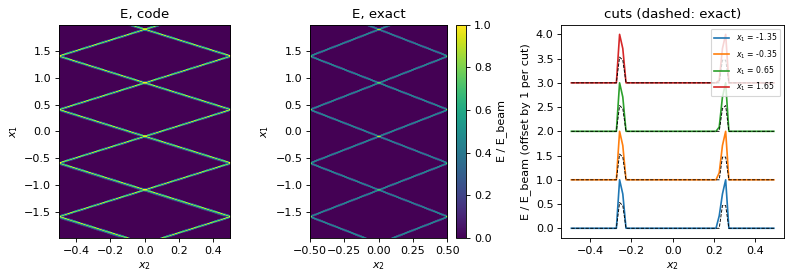
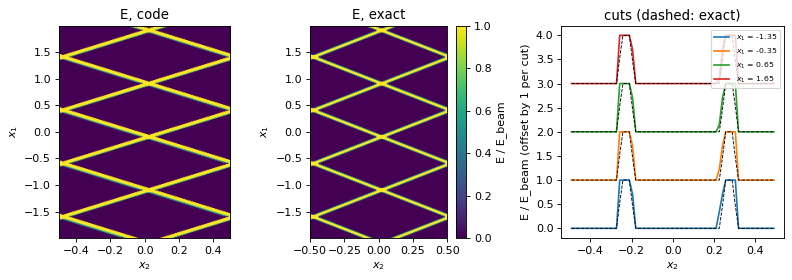
Sync from vet-clean-release a5a4a67d3: 4-cell beam tests

diff --git a/source/tests.rst b/source/tests.rst
@@ -207,15 +207,15 @@ fast-relaxation thermal equilibrium is ``thermal_eq``). L1 is sum \|q - q_exact\
 +------------------------+-----------------------+------------------------------------+----------------------+
 | test                   | deck                  | what                               | criterion            |
 +========================+=======================+====================================+======================+
-| ``idort_beams``        | ``idort_beams``       | two beams crossing in vacuum at    | L1 and ``lum_top``   |
-|                        |                       | +-45 deg (256 x 64, x2 periodic,   | within 5 % of 0.777  |
-|                        |                       | ring of 4 rays): E vs the exact    | and 1.785            |
-|                        |                       | straight beams (cell averages);    | (regression          |
-|                        |                       | ``lum_top`` the energy of the row  | references, see      |
-|                        |                       | 3 cells below x1max vs exact;      | below); ``flux_err`` |
-|                        |                       | ``flux_err`` the x1 energy flux    | <= 1e-5              |
-|                        |                       | (``vet_phi1``) through every row   |                      |
-|                        |                       | vs the injected flux               |                      |
+| ``idort_beams``        | ``idort_beams``       | two beams, 4 cells wide, crossing  | L1 and ``lum_top``   |
+|                        |                       | in vacuum at +-45 deg (256 x 64,   | within 5 % of 0.2015 |
+|                        |                       | x2 periodic, ring of 4 rays): E vs | and 1.204            |
+|                        |                       | the exact straight beams (cell     | (regression          |
+|                        |                       | averages); ``lum_top`` the energy  | references, see      |
+|                        |                       | of the row 3 cells below x1max vs  | below); ``flux_err`` |
+|                        |                       | exact; ``flux_err`` the x1 energy  | <= 1e-5              |
+|                        |                       | flux (``vet_phi1``) through every  |                      |
+|                        |                       | row vs the injected flux           |                      |
 +------------------------+-----------------------+------------------------------------+----------------------+
 | ``idort_beams_mb``     | ``idort_beams``       | the beams on 4 MeshBlocks vs 1:    | tile x2: identical;  |
 |                        |                       | along x2 in tile mode              | block x1: largest    |
@@ -263,12 +263,14 @@ fast-relaxation thermal equilibrium is ``thermal_eq``). L1 is sum \|q - q_exact\
 (``ref/idort_cylinder_exact.npz``, x > 0 on the 128-cell grid) is the transport integral over 64
 Gauss polar angles x 4096 azimuths and the cylinder's periodic images. Notes:
 
-- **Beams.** The beams stay straight, at their angle and 1-2 cells wide, and cross without
-  interacting, but an oblique beam narrower than a cell carries about 1.8 x the exact energy
-  density at this resolution (``lum_top``; 1.4 x at twice the resolution): the cap of the
-  streaming share at the beam edges. This dominates L1 (0.78); both are regression
-  references. The energy flux through every row equals the injected flux to 3e-7
-  (``flux_err``); the face momentum F (``vet_f1``) of such a beam is only 0.4-0.5 of the exact.
+- **Beams.** The 4-cell beams stay straight, at their angle and 0.8 cells wider at half maximum
+  than the exact ones, but carry 1.20 x the exact energy (``lum_top``): the cap of the streaming
+  share at the beam edges. They cross and go on: the field differs from the sum of the two
+  single-beam fields by more than 0.05 E_b only in 48 of the 256 rows, around the crossings
+  (1.6 % of the energy; the largest E is 1.13 x the exact). The excess falls as the beam
+  widens: 1.79, 1.39, 1.20, 1.09 x at 1, 2, 4, 8 cells (L1 0.78, 0.39, 0.20, 0.11). Both are
+  regression references. The energy flux through every row equals the injected flux to 6e-8
+  (``flux_err``).
 - **Cylinder flux.** E outside the cylinder is within 1.1 % of exact transport and the
   energy flux Phi (``F_out``, ``vet_phi1``, the flux the method paper measures) within 1.2 %
   (r F at x = 2-3.5 is 0.989 of exact). The face momentum F (``vet_f1``, ``FH_out``) is 20 %
@@ -505,7 +507,7 @@ The key plot of each test, from its notebook (``docs/vet_clean/figures/``).
    :alt: idort_beams
    :width: 100%
 
-   Two beams crossing in vacuum at ±45 deg: E of the run and the exact straight beams (images) and cuts across the beams at four heights (dashed: exact). The beams stay 1-2 cells wide; an oblique sub-cell beam carries about 1.8 x the exact energy, at the exact energy flux. Pass: L1 of E and the beam energy within 5 % of 0.777 and 1.785; energy flux through every row within 1e-5 of the injected.
+   Two 4-cell-wide beams crossing in vacuum at ±45 deg: E of the run and the exact straight beams (images) and cuts across the beams at four heights (dashed: exact). The beams stay straight and carry 1.20 x the exact energy, at the exact energy flux. Pass: L1 of E and the beam energy within 5 % of 0.2015 and 1.204; energy flux through every row within 1e-5 of the injected.
 
 .. figure:: figures/idort_shadow.png
    :alt: idort_shadow, idort_shadow_gl

diff --git a/source/properties.rst b/source/properties.rst
@@ -299,14 +299,14 @@ The Eddington tensor and the thin-limit face fluxes come from the rays, so radia
 far from isotropic keeps its direction: crossing beams pass through each other, a beam
 behind an opaque cloud leaves a sharp shadow, and the field around an emitting cylinder
 follows exact transport (an M1 closure merges crossing beams and fills shadows). Each beam
-stays straight, at its angle and 1-2 cells wide, but an oblique beam narrower than a cell
-carries about 1.8 x the exact energy density (1.4 x at twice the resolution; the cap of the
-streaming share at its edges), while its energy flux equals the injected flux to 3e-7. Around
+of the test, 4 cells wide, stays straight at its angle but carries 1.20 x the exact energy
+(1.79, 1.39, 1.20, 1.09 x at 1, 2, 4, 8 cells; the cap of the streaming share at its edges),
+while its energy flux equals the injected flux to 6e-8. Around
 the cylinder E and the energy flux Phi are within 1.1 % and 1.2 % of exact transport; the face
 momentum F there is about 20 % above it (an earlier study with other keys attributed this to
 the harmonic face opacity at the sharp edge; not re-measured here).
 
-Test: ``idort_beams`` (L1 of E and the beam energy within 5 % of 0.777 and 1.785), ``idort_shadow``, ``idort_shadow_gl`` (L1
+Test: ``idort_beams`` (L1 of E and the beam energy within 5 % of 0.2015 and 1.204), ``idort_shadow``, ``idort_shadow_gl`` (L1
 0.014 and 0.013), ``idort_cylinder`` (E and Phi outside 0.011 and 0.012), ``nlte_eps1e-1``, ``nlte_eps1e-4`` (J
 against exact transport, L1 1e-4 and 1.3e-3); ``idort_beams_mb`` (4 MeshBlocks: identical in
 tile mode); ``shadow`` (a clump lit by an isotropic bath: 0.6 % of the unshadowed radiation is
@@ -323,7 +323,7 @@ unchanged to 2 %).
    :alt: idort_beams
    :width: 100%
 
-   Two beams crossing in vacuum at ±45 deg: E of the run and the exact straight beams (images) and cuts across the beams at four heights (dashed: exact). The beams stay 1-2 cells wide; an oblique sub-cell beam carries about 1.8 x the exact energy, at the exact energy flux. Pass: L1 of E and the beam energy within 5 % of 0.777 and 1.785; energy flux through every row within 1e-5 of the injected.
+   Two 4-cell-wide beams crossing in vacuum at ±45 deg: E of the run and the exact straight beams (images) and cuts across the beams at four heights (dashed: exact). The beams stay straight and carry 1.20 x the exact energy, at the exact energy flux. Pass: L1 of E and the beam energy within 5 % of 0.2015 and 1.204; energy flux through every row within 1e-5 of the injected.
 
 .. figure:: figures/idort_shadow.png
    :alt: idort_shadow, idort_shadow_gl

diff --git a/source/download.rst b/source/download.rst
@@ -4,7 +4,7 @@
 Download
 ========
 
-This site documents release ``vet-clean-release`` (commit ``c74b0d083``).
+This site documents release ``vet-clean-release`` (commit ``a5a4a67d3``).
 
 Clone the repository, switch to the release branch, and fetch Kokkos (a git submodule):
 
